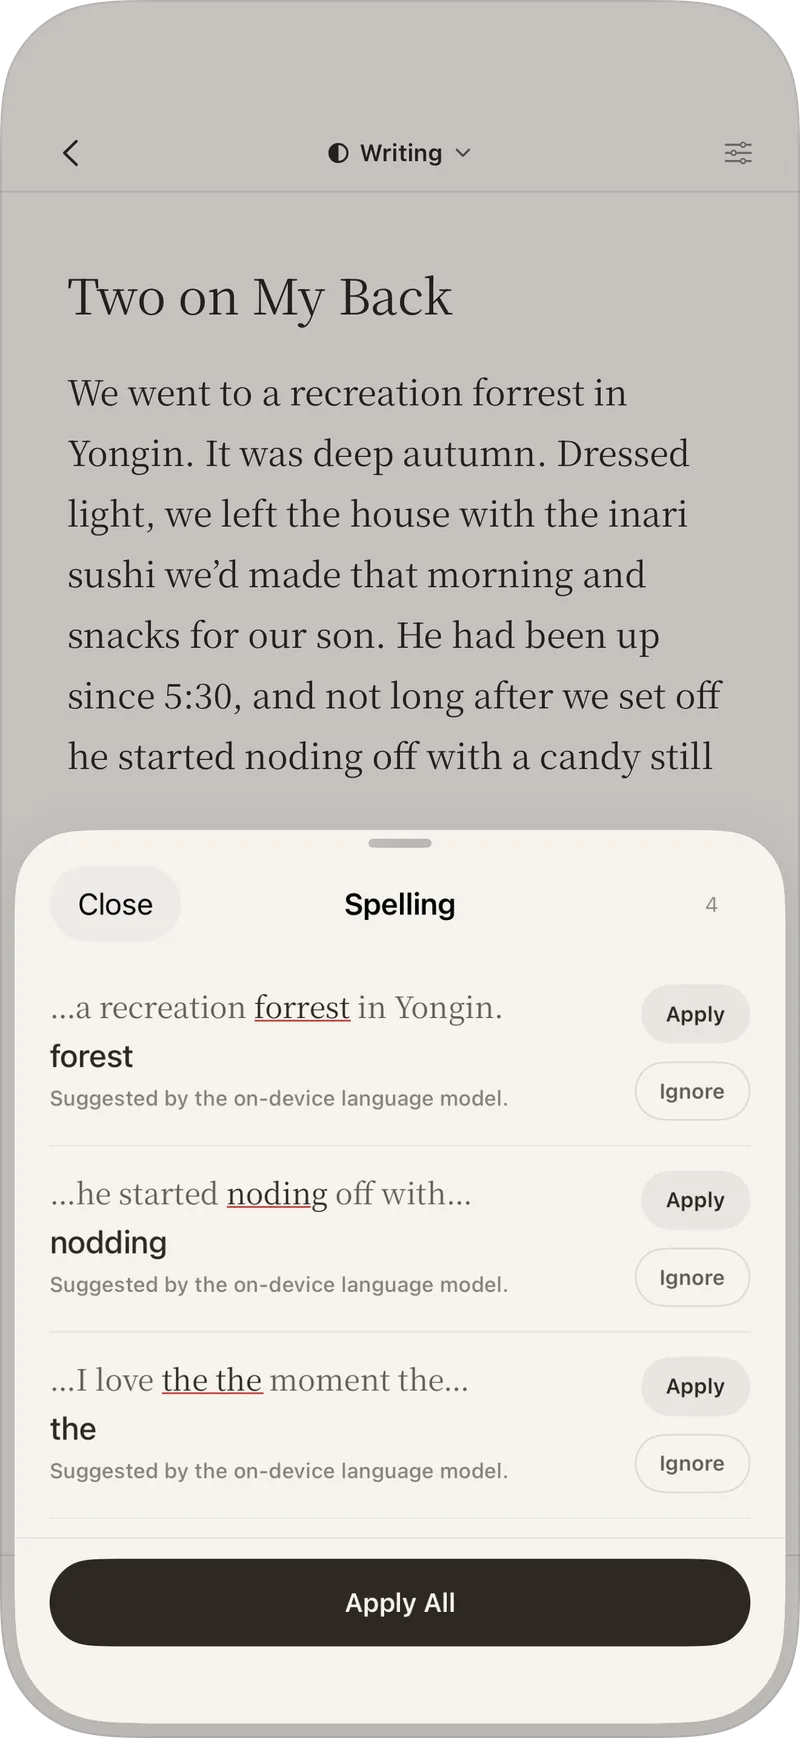
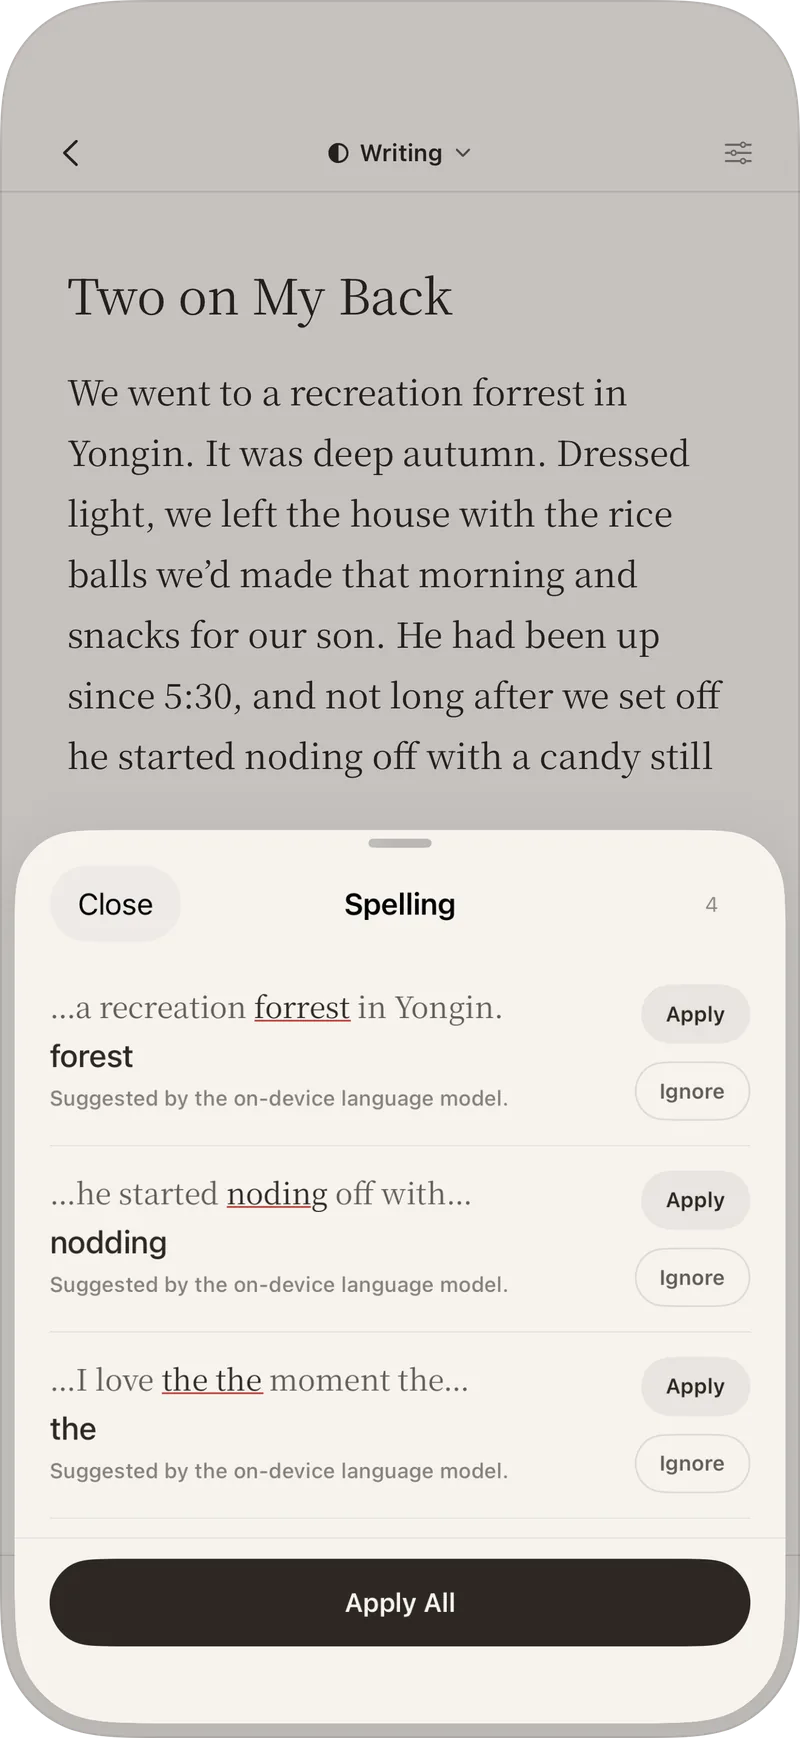
Show rice balls instead of inari sushi in the English spelling screens

Changed region(s): [[0.0938, 0.2796, 0.8438, 0.3418]]

diff --git a/en/index.html b/en/index.html
@@ -57,7 +57,7 @@
     <figure class="phone outer"><picture><source media="(prefers-color-scheme: dark)" srcset="/assets/screens/en-memo-dark-400.webp?v=e939ed7b0d 400w, /assets/screens/en-memo-dark-800.webp?v=d92c436ed9 800w" sizes="(max-width: 599px) 64vw, (max-width: 899px) 320px, 300px" /><img src="/assets/screens/en-memo-light-800.webp?v=98017c78ce" srcset="/assets/screens/en-memo-light-400.webp?v=6266c6cd8e 400w, /assets/screens/en-memo-light-800.webp?v=98017c78ce 800w" sizes="(max-width: 599px) 64vw, (max-width: 899px) 320px, 300px" width="800" height="1738" alt="A note with the Write a Draft button below it" loading="lazy" decoding="async" /></picture><figcaption>From note to draft</figcaption></figure>
     <figure class="phone inner"><picture><source media="(prefers-color-scheme: dark)" srcset="/assets/screens/en-outline-dark-400.webp?v=9dc54743dd 400w, /assets/screens/en-outline-dark-800.webp?v=ff3f798650 800w" sizes="(max-width: 599px) 64vw, (max-width: 899px) 320px, 300px" /><img src="/assets/screens/en-outline-light-800.webp?v=955758036b" srcset="/assets/screens/en-outline-light-400.webp?v=ae7f2be291 400w, /assets/screens/en-outline-light-800.webp?v=955758036b 800w" sizes="(max-width: 599px) 64vw, (max-width: 899px) 320px, 300px" width="800" height="1738" alt="Outline — the first sentence of each paragraph with a length bar, so the whole draft fits on one screen" loading="lazy" decoding="async" /></picture><figcaption>The whole flow at a glance</figcaption></figure>
     <figure class="phone center"><picture><source media="(prefers-color-scheme: dark)" srcset="/assets/screens/en-writing-dark-400.webp?v=481e8c9d43 400w, /assets/screens/en-writing-dark-800.webp?v=7ec097a219 800w" sizes="(max-width: 599px) 64vw, (max-width: 899px) 320px, 300px" /><img src="/assets/screens/en-writing-light-800.webp?v=5ecb739ac5" srcset="/assets/screens/en-writing-light-400.webp?v=7dc089c3a4 400w, /assets/screens/en-writing-light-800.webp?v=5ecb739ac5 800w" sizes="(max-width: 599px) 64vw, (max-width: 899px) 320px, 300px" width="800" height="1738" alt="Writing — only the paragraph being written stays sharp while the rest of the draft fades back" decoding="async" /></picture><figcaption>Built for focus</figcaption></figure>
-    <figure class="phone inner"><picture><source media="(prefers-color-scheme: dark)" srcset="/assets/screens/en-spellcheck-dark-400.webp?v=fd1e2f8599 400w, /assets/screens/en-spellcheck-dark-800.webp?v=09a1ad64df 800w" sizes="(max-width: 599px) 64vw, (max-width: 899px) 320px, 300px" /><img src="/assets/screens/en-spellcheck-light-800.webp?v=bc22bdc098" srcset="/assets/screens/en-spellcheck-light-400.webp?v=1e958d17be 400w, /assets/screens/en-spellcheck-light-800.webp?v=bc22bdc098 800w" sizes="(max-width: 599px) 64vw, (max-width: 899px) 320px, 300px" width="800" height="1738" alt="Spelling results — each fix shows the original and the suggestion, to apply one at a time or all at once" loading="lazy" decoding="async" /></picture><figcaption>Spelling, fixed in place</figcaption></figure>
+    <figure class="phone inner"><picture><source media="(prefers-color-scheme: dark)" srcset="/assets/screens/en-spellcheck-dark-400.webp?v=93f4018656 400w, /assets/screens/en-spellcheck-dark-800.webp?v=c1528580e8 800w" sizes="(max-width: 599px) 64vw, (max-width: 899px) 320px, 300px" /><img src="/assets/screens/en-spellcheck-light-800.webp?v=8047b94401" srcset="/assets/screens/en-spellcheck-light-400.webp?v=9543ef3cd2 400w, /assets/screens/en-spellcheck-light-800.webp?v=8047b94401 800w" sizes="(max-width: 599px) 64vw, (max-width: 899px) 320px, 300px" width="800" height="1738" alt="Spelling results — each fix shows the original and the suggestion, to apply one at a time or all at once" loading="lazy" decoding="async" /></picture><figcaption>Spelling, fixed in place</figcaption></figure>
     <figure class="phone outer"><picture><source media="(prefers-color-scheme: dark)" srcset="/assets/screens/en-export-dark-400.webp?v=c895315ee7 400w, /assets/screens/en-export-dark-800.webp?v=3bd6f1d16a 800w" sizes="(max-width: 599px) 64vw, (max-width: 899px) 320px, 300px" /><img src="/assets/screens/en-export-light-800.webp?v=c089ff1b1e" srcset="/assets/screens/en-export-light-400.webp?v=76232b4d06 400w, /assets/screens/en-export-light-800.webp?v=c089ff1b1e 800w" sizes="(max-width: 599px) 64vw, (max-width: 899px) 320px, 300px" width="800" height="1738" alt="Export — choose Copy, Post to Threads, Send to Another App or Save as File" loading="lazy" decoding="async" /></picture><figcaption>Anywhere it needs to go</figcaption></figure>
   </div>
 </section>
